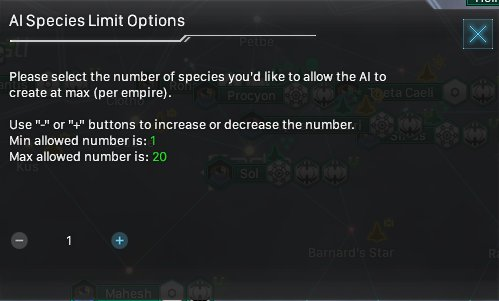
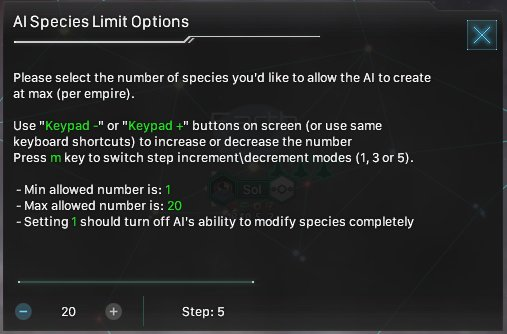
Add step function and hotkey for step UI repositioning for step counter

diff --git a/interface_gui_gen.py b/interface_gui_gen.py
@@ -4,7 +4,8 @@ template = '''
         effectButtonType = {{
             name = "counter_{0}"
             quadTextureSprite = "GFX_asl_text_button"
-            position = {{ x = 50 y = 300 }}
+            position = {{ x = 25 y = 300 }}
+            size = {{ x = 40 y = 20 }}
             buttonFont = "cg_16b"
             buttonText = "asl_counter_{0}"
             clicksound = no_sound
